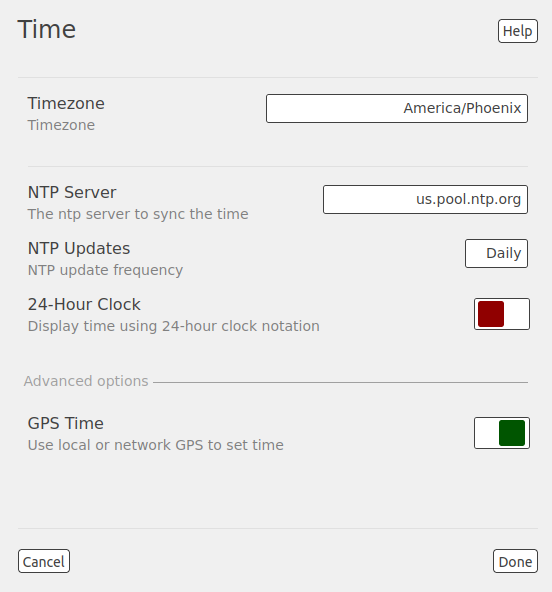
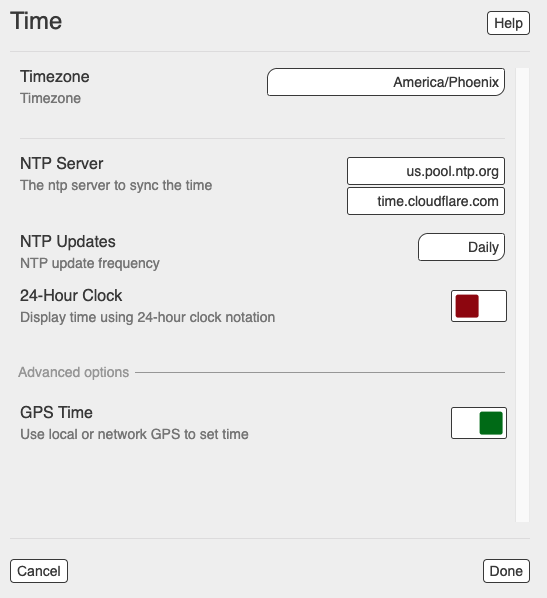
add second NTP server setting (#423)

diff --git a/arednGettingStarted/node_admin.rst b/arednGettingStarted/node_admin.rst
@@ -77,7 +77,7 @@ You can click the ``Cancel`` button to ignore any changes you made on this displ
 Time settings
 -------------
 
-Highlight and click the section displaying your node's time. Select your timezone from the dropdown list, where the default value is :abbr:`UTC (Coordinated Universal Time)`. You can also enter the hostname for a :abbr:`NTP (Network Time Protocol)` source if your node is connected to a network which has a network time server. In the *NTP Server* field you should enter a valid hostname for the network time source, for example ``us.pool.ntp.org`` or ``AD5BC-ntp.local.mesh``. You may also choose how often NTP will update the node’s clock by selecting a value from the *NTP Updates* dropdown list. The default is once per day [daily] but you may also select once per hour [hourly] or you can have your node run the NTP program [continuously]. If you have mesh based NTP servers, advertise them as services to ensure time synchronization across your mesh network when the Internet is not available. Review the **Local Services** section below for instructions on advertising a local NTP server.
+Highlight and click the section displaying your node's time. Select your timezone from the dropdown list, where the default value is :abbr:`UTC (Coordinated Universal Time)`. Two fields are provided for entering the hostnames of :abbr:`NTP (Network Time Protocol)` servers if your node is connected to a network with network time services. You can enter valid hostnames in the *NTP Server* fields: for example ``us.pool.ntp.org`` or ``AD5BC-ntp.local.mesh``. You may also choose how often NTP will update the node’s clock by selecting a value from the *NTP Updates* dropdown list. The default is once per day [daily] but you may also select once per hour [hourly] or you can have your node run the NTP program [continuously]. If you have mesh-based NTP servers, advertise them as services to ensure time synchronization across your mesh network when the Internet is not available. Review the **Local Services** section below for instructions on advertising a local NTP server.
 
 .. image:: _images/admin-time.png
   :alt: Admin Time
